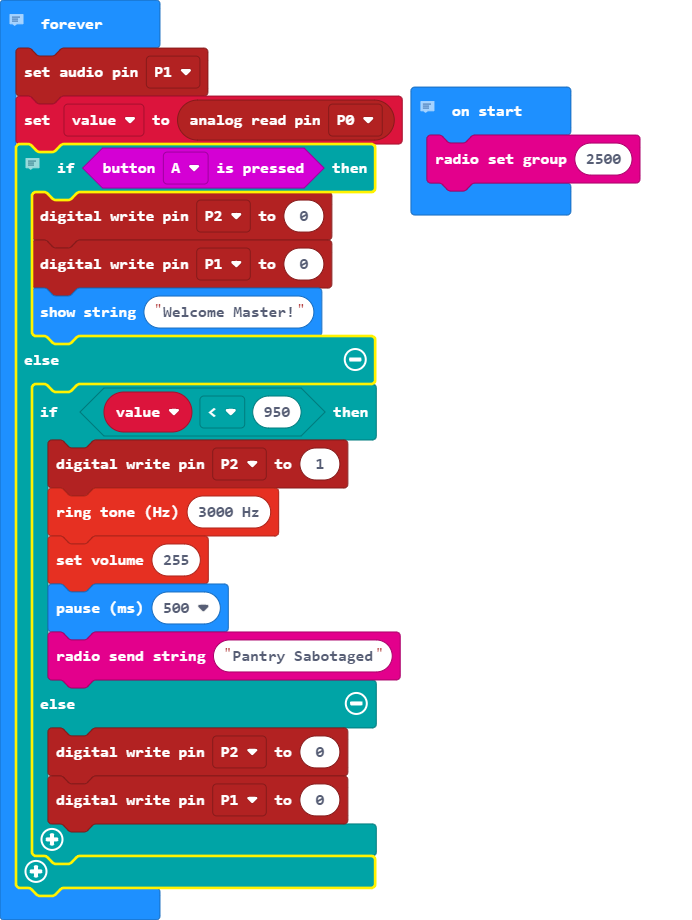
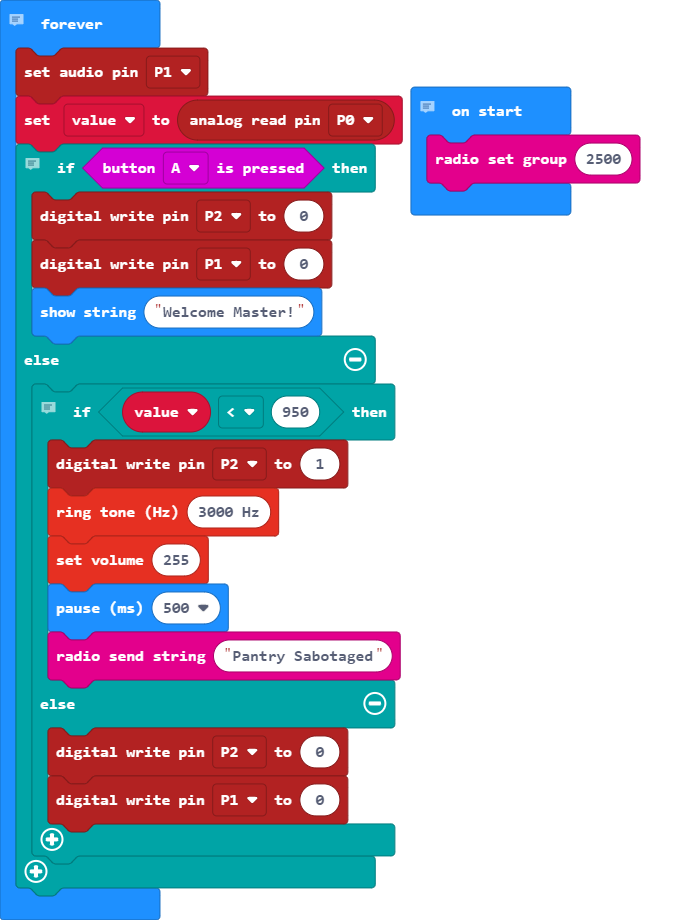
Update main.blocks, main.ts

Changed region(s): [[0.0, 0.1522, 0.5766, 0.9739], [0.4855, 0.7304, 0.5766, 0.7913]]

diff --git a/main.ts b/main.ts
@@ -11,6 +11,7 @@ basic.forever(function () {
         pins.digitalWritePin(DigitalPin.P1, 0)
         basic.showString("Welcome Master!")
     } else {
+        // When the flex sensor is less than 950 start the LED and buzzer. If not the buzzer and LED are off.
         if (value < 950) {
             pins.digitalWritePin(DigitalPin.P2, 1)
             music.ringTone(3000)
